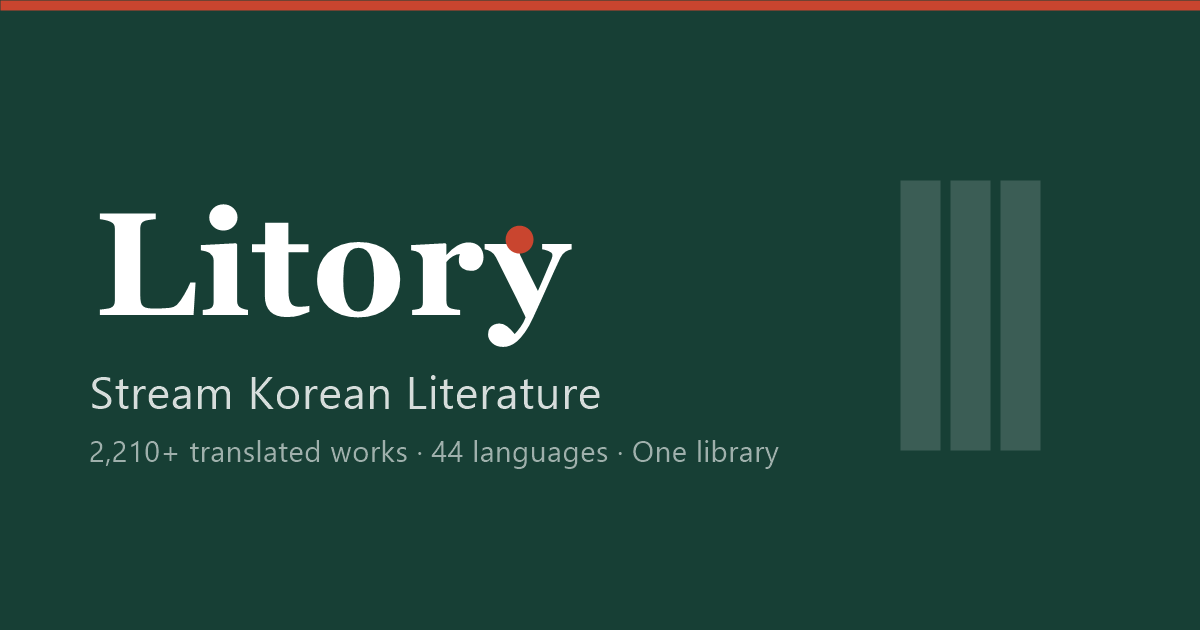
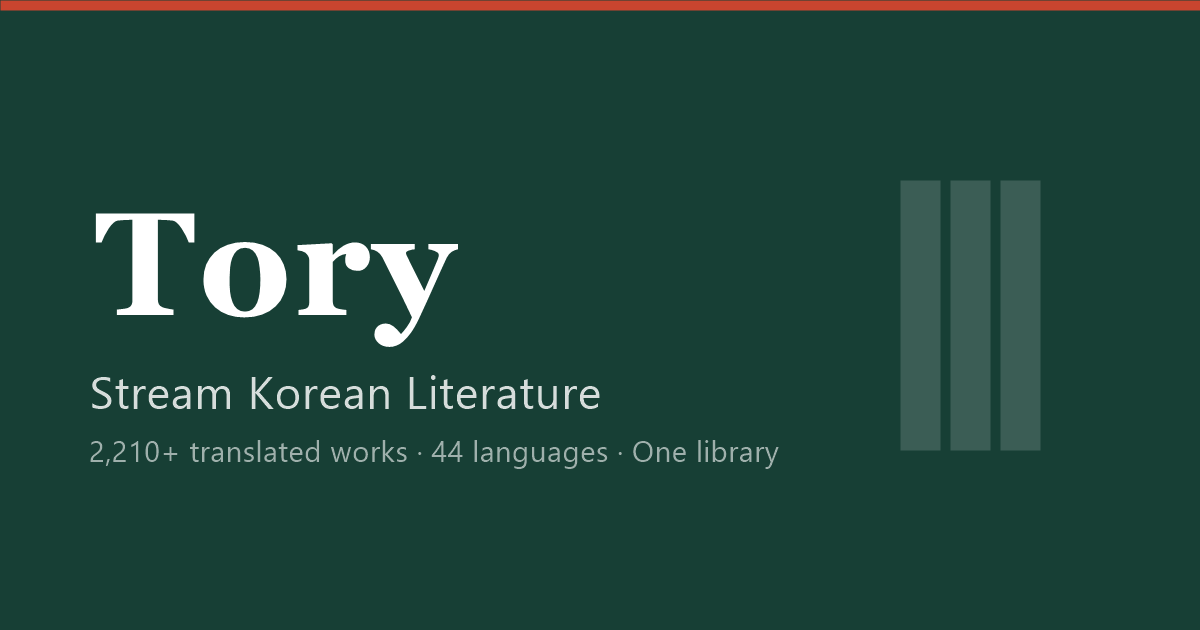
Rebrand Litory -> Tory
Logo now shows the Tori mascot to the left of "Tory" text; updated
all on-page copy, OG share image, and meta tags to match.

Changed region(s): [[0.0617, 0.3317, 0.4933, 0.573]]

diff --git a/src/App.tsx b/src/App.tsx
@@ -226,7 +226,7 @@ function ViewerModal({ book, onClose }: { book: Book; onClose: () => void }) {
 
   const body =
     book.excerpt ??
-    `${book.description}\n\n— This preview is demo text reconstructed from the opening of “${book.translatedTitle}”. In the full service, the complete translation streams from the Litory cloud library.`
+    `${book.description}\n\n— This preview is demo text reconstructed from the opening of “${book.translatedTitle}”. In the full service, the complete translation streams from the Tory cloud library.`
 
   return (
     <div
@@ -270,7 +270,7 @@ function ViewerModal({ book, onClose }: { book: Book; onClose: () => void }) {
             <p className="rounded bg-red-50 p-2 text-[11px] leading-relaxed text-dancheong">
               <Archive className="mr-1 inline h-3 w-3" />
               Out of print in stores — permanently readable only through the
-              Litory cloud archive.
+              Tory cloud archive.
             </p>
           )}
           <div className="mt-auto rounded border border-gray-200 bg-white p-3">
@@ -292,7 +292,7 @@ function ViewerModal({ book, onClose }: { book: Book; onClose: () => void }) {
           <div className="flex items-center justify-between border-b border-gray-200 px-4 py-2.5">
             <div className="flex items-center gap-1.5 text-xs font-medium text-gray-500">
               <BookOpen className="h-4 w-4" />
-              Litory Reader · Preview
+              Tory Reader · Preview
             </div>
             <div className="flex items-center gap-1">
               <button
@@ -368,7 +368,7 @@ function UtilityBar() {
     <div className="border-b border-gray-100 bg-white">
       <div className="mx-auto flex max-w-6xl items-center justify-between px-4 py-1.5 text-[11px] text-gray-400">
         <div className="flex items-center gap-3">
-          <span className="font-semibold text-gray-500">Litory</span>
+          <span className="font-semibold text-gray-500">Tory</span>
           <span className="hidden sm:inline">For Publishers</span>
           <span className="hidden sm:inline">For Translators</span>
         </div>
@@ -398,16 +398,15 @@ function MainHeader() {
   return (
     <div className="bg-white">
       <div className="mx-auto flex max-w-6xl items-center gap-4 px-4 py-3.5 sm:gap-8">
-        <a href="#top" title="Litory" className="group flex shrink-0 items-center">
-          <span className="text-2xl font-extrabold tracking-tight text-gray-900">
-            Li
-          </span>
-          {/* Tori the mascot stands in for the “tory” in Litory */}
+        <a href="#top" title="Tory" className="group flex shrink-0 items-center gap-1.5">
           <img
             src={`${import.meta.env.BASE_URL}tori.png`}
-            alt="tory"
-            className="ml-0.5 h-10 w-10 animate-tori-bob group-hover:animate-tori-jump"
+            alt="Tori the mascot"
+            className="h-10 w-10 animate-tori-bob group-hover:animate-tori-jump"
           />
+          <span className="text-2xl font-extrabold tracking-tight text-gray-900">
+            Tory
+          </span>
         </a>
 
         {/* search bar */}
@@ -1131,7 +1130,7 @@ function MembershipSection() {
       <div className="mx-auto max-w-6xl px-4">
         <div className="mb-8 text-center">
           <h2 className="text-xl font-bold text-gray-900 sm:text-2xl">
-            Litory Membership
+            Tory Membership
           </h2>
           <p className="mt-1 text-sm text-gray-500">
             One subscription, every translation. First month free.
@@ -1194,7 +1193,7 @@ function MembershipSection() {
 // ═══════════════════════════════════════════════════════════════
 
 const FOOTER_LINKS = [
-  'About Litory',
+  'About Tory',
   'Terms of Service',
   'Privacy Policy',
   'Youth Protection',
@@ -1225,15 +1224,15 @@ function Footer() {
 
         <div className="mt-5 space-y-1 text-[11px] leading-relaxed text-gray-400">
           <p>
-            Litory Inc. · CEO Team Yaho · 123 Teheran-ro, Gangnam-gu, Seoul, Korea ·
+            Tory Inc. · CEO Team Yaho · 123 Teheran-ro, Gangnam-gu, Seoul, Korea ·
             Business License 123-45-67890
           </p>
           <p>
-            Customer Center [email redacted] (09:00–18:00 KST, weekdays) · Catalog
+            Customer Center [email redacted] (09:00–18:00 KST, weekdays) · Catalog
             data adapted from LTI Korea translation grant statistics (late 2024)
           </p>
           <p className="pt-1 text-gray-300">
-            © 2026 Litory. Hackathon demo — all titles shown for demonstration
+            © 2026 Tory. Hackathon demo — all titles shown for demonstration
             purposes.
           </p>
         </div>

diff --git a/index.html b/index.html
@@ -4,12 +4,12 @@
     <meta charset="UTF-8" />
     <link rel="icon" type="image/png" href="./tori.png" />
     <meta name="viewport" content="width=device-width, initial-scale=1.0" />
-    <title>Litory · Stream Korean Literature in English & 44 Languages</title>
+    <title>Tory · Stream Korean Literature in English & 44 Languages</title>
 
     <!-- SEO -->
     <meta
       name="description"
-      content="Loved the K-drama? Read the book it came from. Litory streams 2,210+ translated Korean novels, essays, and stories — Han Kang, Cursed Bunny, Kim Jiyoung and more. First 30 days free."
+      content="Loved the K-drama? Read the book it came from. Tory streams 2,210+ translated Korean novels, essays, and stories — Han Kang, Cursed Bunny, Kim Jiyoung and more. First 30 days free."
     />
     <meta
       name="keywords"
@@ -19,8 +19,8 @@
 
     <!-- Open Graph (Facebook, KakaoTalk, Discord, LinkedIn) -->
     <meta property="og:type" content="website" />
-    <meta property="og:site_name" content="Litory" />
-    <meta property="og:title" content="Litory · Stream Korean Literature" />
+    <meta property="og:site_name" content="Tory" />
+    <meta property="og:title" content="Tory · Stream Korean Literature" />
     <meta
       property="og:description"
       content="You loved the K-drama. Now stream the book it came from. 2,210+ translated Korean works in 44 languages — first 30 days free."
@@ -36,7 +36,7 @@
 
     <!-- Twitter / X card -->
     <meta name="twitter:card" content="summary_large_image" />
-    <meta name="twitter:title" content="Litory · Stream Korean Literature" />
+    <meta name="twitter:title" content="Tory · Stream Korean Literature" />
     <meta
       name="twitter:description"
       content="You loved the K-drama. Now stream the book it came from. 2,210+ translated Korean works in 44 languages — first 30 days free."

diff --git a/src/data.ts b/src/data.ts
@@ -129,7 +129,7 @@ export const BOOKS: Book[] = [
     episodeMinutes: 9,
     kContentTags: ['sci-fi', 'heartwarming', 'nature'],
     description:
-      'A world ended by dust storms — and life blooming again. Only the first English edition survives; preserved in the Litory archive.',
+      'A world ended by dust storms — and life blooming again. Only the first English edition survives; preserved in the Tory archive.',
   },
   {
     id: 7,
@@ -249,7 +249,7 @@ export const BOOKS: Book[] = [
     episodeMinutes: 9,
     kContentTags: ['thriller', 'dark', 'k-movie'],
     description:
-      'A single accident, seven years of nightmare. Out of print in translation — urgently preserved in the Litory archive.',
+      'A single accident, seven years of nightmare. Out of print in translation — urgently preserved in the Tory archive.',
   },
   {
     id: 15,
@@ -382,7 +382,7 @@ export const COMMUNITY_POSTS: CommunityPost[] = [
     id: 2,
     title: 'July Book Club · Human Acts — Week 2 reading thread',
     bookId: 9,
-    author: 'Litory Book Club',
+    author: 'Tory Book Club',
     country: '🌏',
     tag: 'Book Club',
     replies: 96,
@@ -446,7 +446,7 @@ export const PLANS: Plan[] = [
   },
   {
     id: 'monthly',
-    name: 'Litory Unlimited',
+    name: 'Tory Unlimited',
     price: '$9.9',
     period: 'per month',
     tagline: 'Every translation. Every language. One click.',

diff --git a/src/types.ts b/src/types.ts
@@ -1,10 +1,10 @@
 // ─────────────────────────────────────────────────────────────
-//  Litory · Korean literature streaming platform — domain types
+//  Tory · Korean literature streaming platform — domain types
 // ─────────────────────────────────────────────────────────────
 
 /**
  * Book
- * One translated Korean work integrated into the Litory cloud library.
+ * One translated Korean work integrated into the Tory cloud library.
  * Every UI component consumes data strictly through this interface.
  */
 export interface Book {
@@ -20,7 +20,7 @@ export interface Book {
   genre: string
   /** Language codes with an existing translation (e.g. ['EN', 'FR']) */
   translatedLanguages: string[]
-  /** true → out of print, preserved exclusively in the Litory archive */
+  /** true → out of print, preserved exclusively in the Tory archive */
   isOutOfPrint: boolean
   /** Short pitch shown on cards and in the viewer */
   description: string